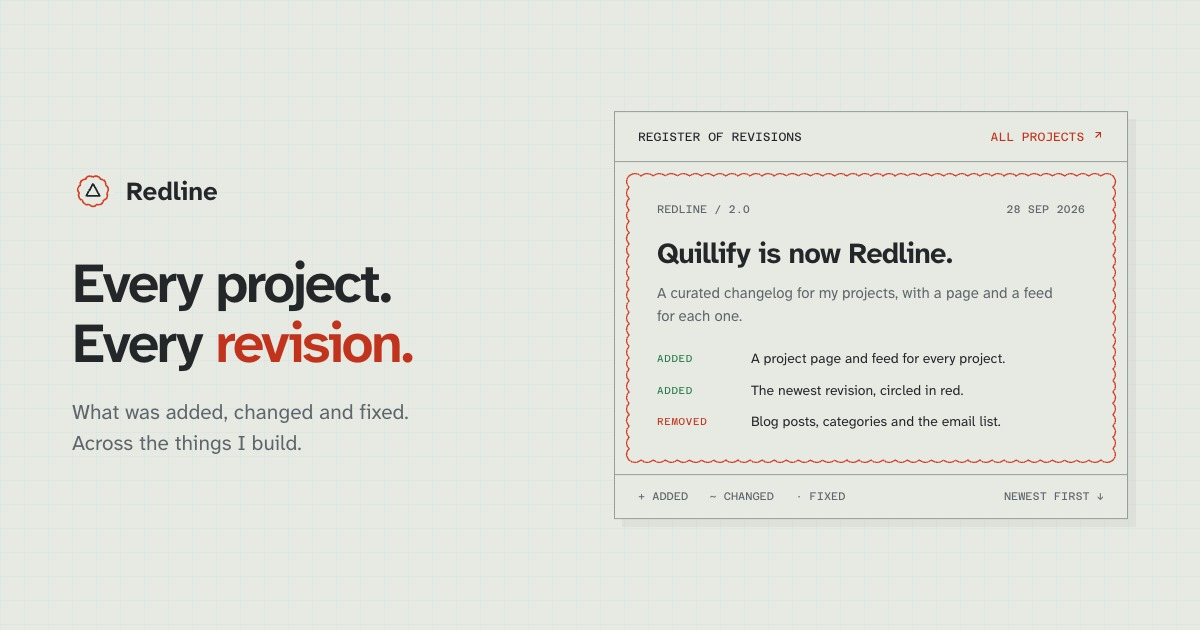
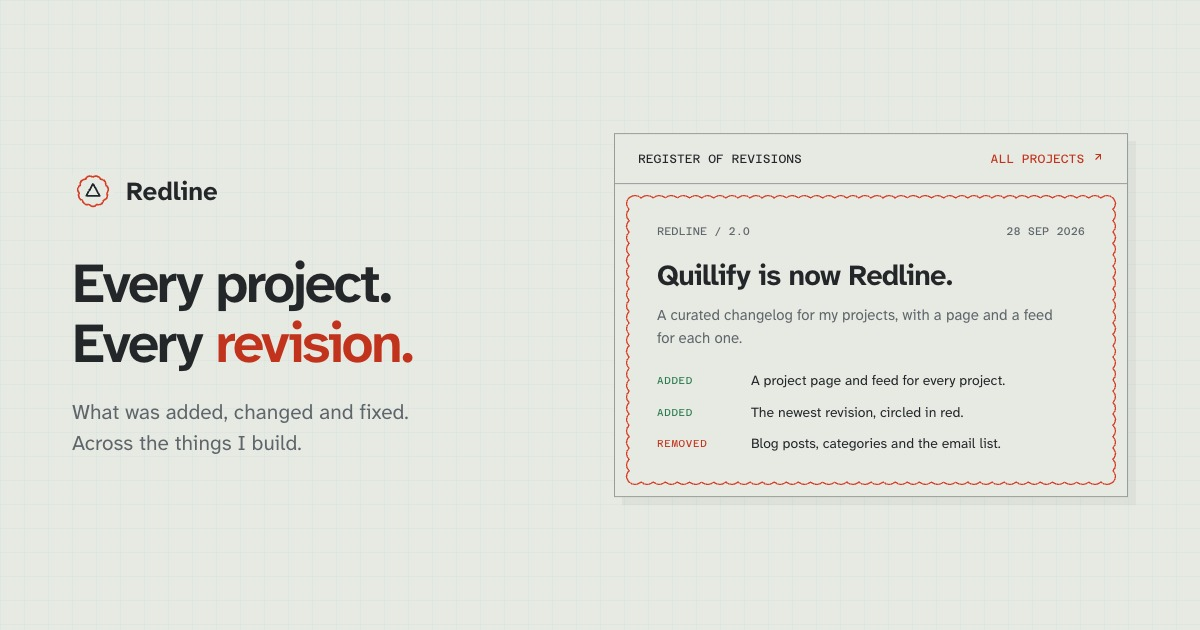
Simplify OG image by removing the bottom legend

Changed region(s): [[0.5242, 0.2111, 0.925, 0.573], [0.5242, 0.5429, 0.925, 0.8143]]

diff --git a/docs/og.html b/docs/og.html
@@ -7,7 +7,7 @@
   <style>
 @font-face{font-family:"Atkinson";src:url("../app/fonts/atkinson-hyperlegible-next.woff2") format("woff2");font-style:normal;font-weight:200 800;font-display:block}@font-face{font-family:"Azeret";src:url("../app/fonts/azeret-mono.woff2") format("woff2");font-style:normal;font-weight:100 900;font-display:block}
 *{box-sizing:border-box}html,body{margin:0;width:1200px;height:630px;overflow:hidden}body{font-synthesis:none;-webkit-font-smoothing:antialiased}main{position:relative;width:1200px;height:630px}.copy{position:absolute;left:72px;top:50%;transform:translateY(-50%);width:485px}.brand{display:flex;align-items:center;gap:12px;font-size:26px;font-weight:700}.brand img{width:42px;height:42px;flex:none}h1{margin:42px 0 22px;font-size:54px;line-height:1.08;letter-spacing:-.045em;font-weight:700}p{margin:0;font-size:21px;line-height:1.5}.visual{position:absolute;left:620px;top:50%;transform:translateY(-50%);width:508px}.accent{color:var(--accent)}
-body{font-family:Atkinson,sans-serif;background:#e7eae3;color:#23272a;--accent:#c2331d}main{background-image:linear-gradient(#9ccbe01f 1px,transparent 1px),linear-gradient(90deg,#9ccbe01f 1px,transparent 1px);background-size:24px 24px}p{color:#5f666b}h1{font-size:56px;font-weight:650}.visual{left:614px;width:514px;border:1px solid #23272a66;background:#e7eae3;box-shadow:8px 8px 0 #23272a0c}.register-top{display:flex;align-items:center;justify-content:space-between;padding:17px 23px;border-bottom:1px solid #23272a66;font-family:Azeret,monospace;font-size:12px}.register-top span{color:#c2331d}.entry{padding:27px 28px 28px;border:2px solid transparent;margin:12px;position:relative}.revision-cloud{position:absolute;inset:-4px;width:calc(100% + 8px);height:calc(100% + 8px);pointer-events:none;overflow:visible}.entry-meta{display:flex;justify-content:space-between;font-family:Azeret,monospace;font-size:11px;color:#5f666b}.entry h2{font-size:29px;letter-spacing:-.025em;margin:18px 0 10px}.entry p{font-size:15px;line-height:1.5;max-width:405px}.changes{margin:22px 0 0;display:grid;gap:12px}.change{display:grid;grid-template-columns:82px 1fr;gap:12px;font-size:14px;line-height:1.4}.kind{font-family:Azeret,monospace;font-size:10px;letter-spacing:.07em;align-self:start;padding-top:3px}.added{color:#287a4d}.fixed{color:#c2331d}.register-bottom{display:flex;justify-content:space-between;border-top:1px solid #23272a66;padding:15px 23px;font-family:Azeret,monospace;font-size:11px;color:#5f666b}
+body{font-family:Atkinson,sans-serif;background:#e7eae3;color:#23272a;--accent:#c2331d}main{background-image:linear-gradient(#9ccbe01f 1px,transparent 1px),linear-gradient(90deg,#9ccbe01f 1px,transparent 1px);background-size:24px 24px}p{color:#5f666b}h1{font-size:56px;font-weight:650}.visual{left:614px;width:514px;border:1px solid #23272a66;background:#e7eae3;box-shadow:8px 8px 0 #23272a0c}.register-top{display:flex;align-items:center;justify-content:space-between;padding:17px 23px;border-bottom:1px solid #23272a66;font-family:Azeret,monospace;font-size:12px}.register-top span{color:#c2331d}.entry{padding:27px 28px 28px;border:2px solid transparent;margin:12px;position:relative}.revision-cloud{position:absolute;inset:-4px;width:calc(100% + 8px);height:calc(100% + 8px);pointer-events:none;overflow:visible}.entry-meta{display:flex;justify-content:space-between;font-family:Azeret,monospace;font-size:11px;color:#5f666b}.entry h2{font-size:29px;letter-spacing:-.025em;margin:18px 0 10px}.entry p{font-size:15px;line-height:1.5;max-width:405px}.changes{margin:22px 0 0;display:grid;gap:12px}.change{display:grid;grid-template-columns:82px 1fr;gap:12px;font-size:14px;line-height:1.4}.kind{font-family:Azeret,monospace;font-size:10px;letter-spacing:.07em;align-self:start;padding-top:3px}.added{color:#287a4d}.fixed{color:#c2331d}
   </style>
 </head>
 <body>
@@ -17,7 +17,7 @@ body{font-family:Atkinson,sans-serif;background:#e7eae3;color:#23272a;--accent:#
       <h1>Every project.<br>Every <span class="accent">revision.</span></h1>
       <p>What was added, changed and fixed.<br>Across the things I build.</p>
     </div>
-    <div class="visual"><div class="register-top">REGISTER OF REVISIONS <span>ALL PROJECTS <svg width="12" height="12" viewBox="0 0 24 24" fill="none" stroke="currentColor" stroke-width="2" aria-hidden="true"><path d="M7 17 17 7M7 7h10v10"/></svg></span></div><article class="entry"><svg class="revision-cloud" viewBox="0 0 488 308" preserveAspectRatio="none" aria-hidden="true"><path d="M 4 4 Q 10.0 -1 16 4 Q 22.0 -1 28 4 Q 34.0 -1 40 4 Q 46.0 -1 52 4 Q 58.0 -1 64 4 Q 70.0 -1 76 4 Q 82.0 -1 88 4 Q 94.0 -1 100 4 Q 106.0 -1 112 4 Q 118.0 -1 124 4 Q 130.0 -1 136 4 Q 142.0 -1 148 4 Q 154.0 -1 160 4 Q 166.0 -1 172 4 Q 178.0 -1 184 4 Q 190.0 -1 196 4 Q 202.0 -1 208 4 Q 214.0 -1 220 4 Q 226.0 -1 232 4 Q 238.0 -1 244 4 Q 250.0 -1 256 4 Q 262.0 -1 268 4 Q 274.0 -1 280 4 Q 286.0 -1 292 4 Q 298.0 -1 304 4 Q 310.0 -1 316 4 Q 322.0 -1 328 4 Q 334.0 -1 340 4 Q 346.0 -1 352 4 Q 358.0 -1 364 4 Q 370.0 -1 376 4 Q 382.0 -1 388 4 Q 394.0 -1 400 4 Q 406.0 -1 412 4 Q 418.0 -1 424 4 Q 430.0 -1 436 4 Q 442.0 -1 448 4 Q 454.0 -1 460 4 Q 466.0 -1 472 4 Q 478.0 -1 484 4 Q 489 10.0 484 16 Q 489 22.0 484 28 Q 489 34.0 484 40 Q 489 46.0 484 52 Q 489 58.0 484 64 Q 489 70.0 484 76 Q 489 82.0 484 88 Q 489 94.0 484 100 Q 489 106.0 484 112 Q 489 118.0 484 124 Q 489 130.0 484 136 Q 489 142.0 484 148 Q 489 154.0 484 160 Q 489 166.0 484 172 Q 489 178.0 484 184 Q 489 190.0 484 196 Q 489 202.0 484 208 Q 489 214.0 484 220 Q 489 226.0 484 232 Q 489 238.0 484 244 Q 489 250.0 484 256 Q 489 262.0 484 268 Q 489 274.0 484 280 Q 489 286.0 484 292 Q 489 298.0 484 304 Q 478.0 309 472 304 Q 466.0 309 460 304 Q 454.0 309 448 304 Q 442.0 309 436 304 Q 430.0 309 424 304 Q 418.0 309 412 304 Q 406.0 309 400 304 Q 394.0 309 388 304 Q 382.0 309 376 304 Q 370.0 309 364 304 Q 358.0 309 352 304 Q 346.0 309 340 304 Q 334.0 309 328 304 Q 322.0 309 316 304 Q 310.0 309 304 304 Q 298.0 309 292 304 Q 286.0 309 280 304 Q 274.0 309 268 304 Q 262.0 309 256 304 Q 250.0 309 244 304 Q 238.0 309 232 304 Q 226.0 309 220 304 Q 214.0 309 208 304 Q 202.0 309 196 304 Q 190.0 309 184 304 Q 178.0 309 172 304 Q 166.0 309 160 304 Q 154.0 309 148 304 Q 142.0 309 136 304 Q 130.0 309 124 304 Q 118.0 309 112 304 Q 106.0 309 100 304 Q 94.0 309 88 304 Q 82.0 309 76 304 Q 70.0 309 64 304 Q 58.0 309 52 304 Q 46.0 309 40 304 Q 34.0 309 28 304 Q 22.0 309 16 304 Q 10.0 309 4 304 Q -1 298.0 4 292 Q -1 286.0 4 280 Q -1 274.0 4 268 Q -1 262.0 4 256 Q -1 250.0 4 244 Q -1 238.0 4 232 Q -1 226.0 4 220 Q -1 214.0 4 208 Q -1 202.0 4 196 Q -1 190.0 4 184 Q -1 178.0 4 172 Q -1 166.0 4 160 Q -1 154.0 4 148 Q -1 142.0 4 136 Q -1 130.0 4 124 Q -1 118.0 4 112 Q -1 106.0 4 100 Q -1 94.0 4 88 Q -1 82.0 4 76 Q -1 70.0 4 64 Q -1 58.0 4 52 Q -1 46.0 4 40 Q -1 34.0 4 28 Q -1 22.0 4 16 Q -1 10.0 4 4 Z" fill="none" stroke="#d63e27" stroke-width="1.3" /></svg><div class="entry-meta"><span>REDLINE / 2.0</span><span>28 SEP 2026</span></div><h2>Quillify is now Redline.</h2><p>A curated changelog for my projects, with a page and a feed for each one.</p><div class="changes"><div class="change"><span class="kind added">ADDED</span><span>A project page and feed for every project.</span></div><div class="change"><span class="kind added">ADDED</span><span>The newest revision, circled in red.</span></div><div class="change"><span class="kind fixed">REMOVED</span><span>Blog posts, categories and the email list.</span></div></div></article><div class="register-bottom"><span>+ ADDED &nbsp; ~ CHANGED &nbsp; · FIXED</span><span>NEWEST FIRST ↓</span></div></div>
+    <div class="visual"><div class="register-top">REGISTER OF REVISIONS <span>ALL PROJECTS <svg width="12" height="12" viewBox="0 0 24 24" fill="none" stroke="currentColor" stroke-width="2" aria-hidden="true"><path d="M7 17 17 7M7 7h10v10"/></svg></span></div><article class="entry"><svg class="revision-cloud" viewBox="0 0 488 308" preserveAspectRatio="none" aria-hidden="true"><path d="M 4 4 Q 10.0 -1 16 4 Q 22.0 -1 28 4 Q 34.0 -1 40 4 Q 46.0 -1 52 4 Q 58.0 -1 64 4 Q 70.0 -1 76 4 Q 82.0 -1 88 4 Q 94.0 -1 100 4 Q 106.0 -1 112 4 Q 118.0 -1 124 4 Q 130.0 -1 136 4 Q 142.0 -1 148 4 Q 154.0 -1 160 4 Q 166.0 -1 172 4 Q 178.0 -1 184 4 Q 190.0 -1 196 4 Q 202.0 -1 208 4 Q 214.0 -1 220 4 Q 226.0 -1 232 4 Q 238.0 -1 244 4 Q 250.0 -1 256 4 Q 262.0 -1 268 4 Q 274.0 -1 280 4 Q 286.0 -1 292 4 Q 298.0 -1 304 4 Q 310.0 -1 316 4 Q 322.0 -1 328 4 Q 334.0 -1 340 4 Q 346.0 -1 352 4 Q 358.0 -1 364 4 Q 370.0 -1 376 4 Q 382.0 -1 388 4 Q 394.0 -1 400 4 Q 406.0 -1 412 4 Q 418.0 -1 424 4 Q 430.0 -1 436 4 Q 442.0 -1 448 4 Q 454.0 -1 460 4 Q 466.0 -1 472 4 Q 478.0 -1 484 4 Q 489 10.0 484 16 Q 489 22.0 484 28 Q 489 34.0 484 40 Q 489 46.0 484 52 Q 489 58.0 484 64 Q 489 70.0 484 76 Q 489 82.0 484 88 Q 489 94.0 484 100 Q 489 106.0 484 112 Q 489 118.0 484 124 Q 489 130.0 484 136 Q 489 142.0 484 148 Q 489 154.0 484 160 Q 489 166.0 484 172 Q 489 178.0 484 184 Q 489 190.0 484 196 Q 489 202.0 484 208 Q 489 214.0 484 220 Q 489 226.0 484 232 Q 489 238.0 484 244 Q 489 250.0 484 256 Q 489 262.0 484 268 Q 489 274.0 484 280 Q 489 286.0 484 292 Q 489 298.0 484 304 Q 478.0 309 472 304 Q 466.0 309 460 304 Q 454.0 309 448 304 Q 442.0 309 436 304 Q 430.0 309 424 304 Q 418.0 309 412 304 Q 406.0 309 400 304 Q 394.0 309 388 304 Q 382.0 309 376 304 Q 370.0 309 364 304 Q 358.0 309 352 304 Q 346.0 309 340 304 Q 334.0 309 328 304 Q 322.0 309 316 304 Q 310.0 309 304 304 Q 298.0 309 292 304 Q 286.0 309 280 304 Q 274.0 309 268 304 Q 262.0 309 256 304 Q 250.0 309 244 304 Q 238.0 309 232 304 Q 226.0 309 220 304 Q 214.0 309 208 304 Q 202.0 309 196 304 Q 190.0 309 184 304 Q 178.0 309 172 304 Q 166.0 309 160 304 Q 154.0 309 148 304 Q 142.0 309 136 304 Q 130.0 309 124 304 Q 118.0 309 112 304 Q 106.0 309 100 304 Q 94.0 309 88 304 Q 82.0 309 76 304 Q 70.0 309 64 304 Q 58.0 309 52 304 Q 46.0 309 40 304 Q 34.0 309 28 304 Q 22.0 309 16 304 Q 10.0 309 4 304 Q -1 298.0 4 292 Q -1 286.0 4 280 Q -1 274.0 4 268 Q -1 262.0 4 256 Q -1 250.0 4 244 Q -1 238.0 4 232 Q -1 226.0 4 220 Q -1 214.0 4 208 Q -1 202.0 4 196 Q -1 190.0 4 184 Q -1 178.0 4 172 Q -1 166.0 4 160 Q -1 154.0 4 148 Q -1 142.0 4 136 Q -1 130.0 4 124 Q -1 118.0 4 112 Q -1 106.0 4 100 Q -1 94.0 4 88 Q -1 82.0 4 76 Q -1 70.0 4 64 Q -1 58.0 4 52 Q -1 46.0 4 40 Q -1 34.0 4 28 Q -1 22.0 4 16 Q -1 10.0 4 4 Z" fill="none" stroke="#d63e27" stroke-width="1.3" /></svg><div class="entry-meta"><span>REDLINE / 2.0</span><span>28 SEP 2026</span></div><h2>Quillify is now Redline.</h2><p>A curated changelog for my projects, with a page and a feed for each one.</p><div class="changes"><div class="change"><span class="kind added">ADDED</span><span>A project page and feed for every project.</span></div><div class="change"><span class="kind added">ADDED</span><span>The newest revision, circled in red.</span></div><div class="change"><span class="kind fixed">REMOVED</span><span>Blog posts, categories and the email list.</span></div></div></article></div>
   </main>
 </body>
 </html>

diff --git a/app/layout.jsx b/app/layout.jsx
@@ -28,7 +28,7 @@ export const metadata = {
     url: SITE,
     images: [
       {
-        url: '/og.jpg?v=3',
+        url: '/og.jpg?v=4',
         width: 1200,
         height: 630,
         type: 'image/jpeg',
@@ -40,7 +40,7 @@ export const metadata = {
     card: 'summary_large_image',
     title,
     description,
-    images: ['/og.jpg?v=3'],
+    images: ['/og.jpg?v=4'],
   },
   icons: {
     icon: [

diff --git a/app/api/og/route.jsx b/app/api/og/route.jsx
@@ -23,7 +23,7 @@ export async function GET(request) {
     return new Response(null, {
       status: 307,
       headers: {
-        Location: new URL('/og.jpg?v=3', url.origin).href,
+        Location: new URL('/og.jpg?v=4', url.origin).href,
         'Cache-Control': 'no-store',
       },
     });
